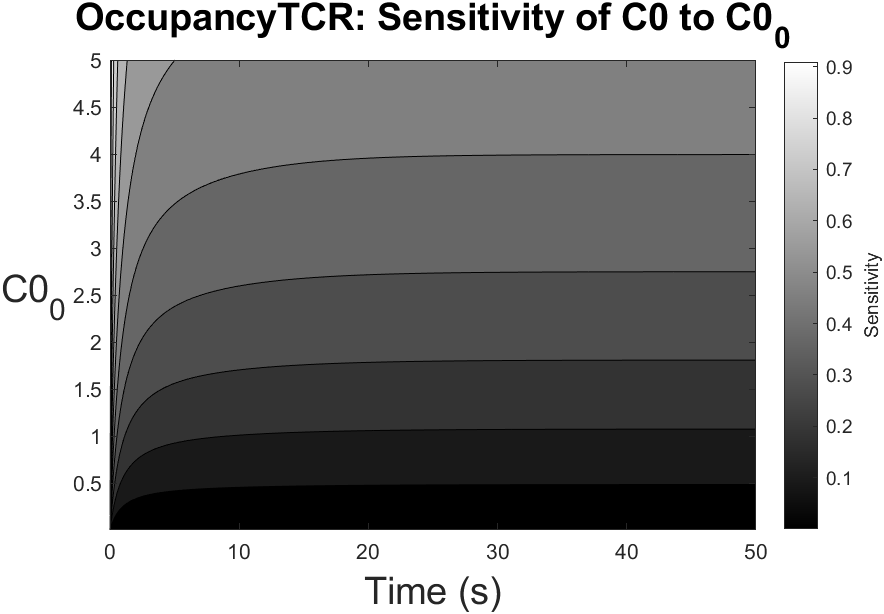
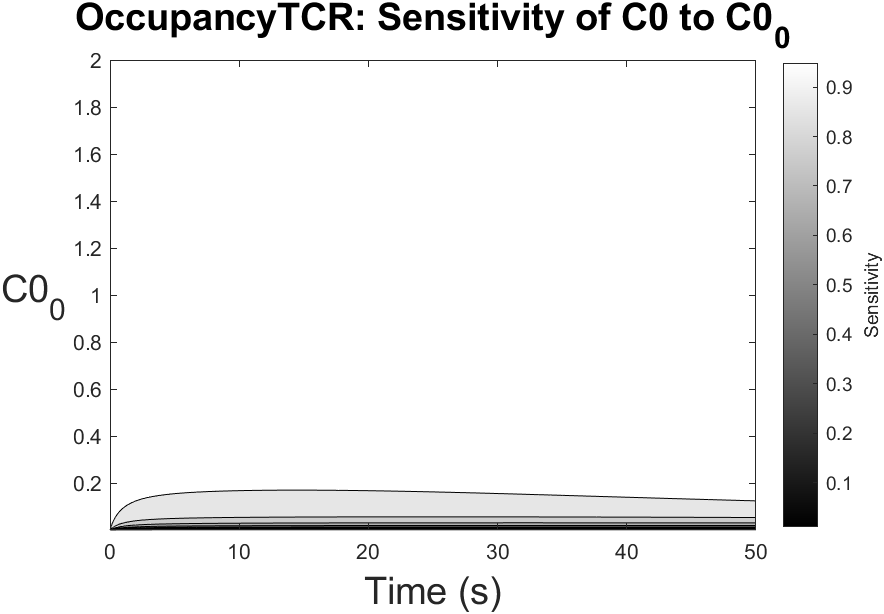
Add IC sensitivity support and update options
Enable sensitivity-to-initial-conditions workflow and refactor related option handling. Adds a new ASV template for OccupancyTCR sensitivity options (v.6/models/OccupancyTCR_options.asv), extends model option fields (ICs_ranges, range_typeICs, number_samples) and moves/time/state config into the model options file. Update sensitivityICs.m to read IC ranges from the model and to build state vectors for three range types. Update Print_Options.m to print the new IC settings, and flip opts.ICsens default to true in v.6/options.m. Update run metadata and images for IC results (changed solver/tolerances and selected IC in run_options_ICs.txt; added IC_3 images and refreshed IC_1 images). Miscellaneous cleanup and synchronization between option files and printers.

diff --git a/v.6/src/sensitivityICs.m b/v.6/src/sensitivityICs.m
@@ -10,16 +10,31 @@ function sensitivityICs(model, opts, ode_function)
     nIC = opts.nStaIC;    
     
     % Limit of the range for analysing the sensitivity
-    rango_min= opts.rango(1);
-    rango_max= opts.rango(2);
+    rango_min= model.ICs_ranges(1);
+    rango_max= model.ICs_ranges(2);
     
     h = waitbar(0, sprintf('Computing IC sensitivity for %s_0...', ...
                            model.state_names{nIC}));
 
     tic
     
-    % Points within the range of sensitivity
-    stateVect = logspace(log10(rango_min), log10(rango_max), model.number_samples);
+    if model.range_typeICs == 1
+
+        % Points within the range of sensitivity
+        stateVect = logspace(rango_min, log10(rango_max), model.number_samples);
+
+    elseif model.range_typeICs == 2
+    
+        model.number_samples = 1000;
+        stateVect = model.param_ranges;
+
+    elseif model.range_typeICs == 3
+
+        stateVect = model.param_ranges;
+    
+    end   
+
+    
 
     results_matrix = zeros(model.number_samples, length(model.tspan));
 

diff --git a/v.6/src/Print/Print_Options.m b/v.6/src/Print/Print_Options.m
@@ -30,12 +30,6 @@ end
 if opts.ICsens
     fprintf('Sensitivity to initial conditions:\n');
     fprintf('  Enabled\n');
-
-    fprintf('Initial condition index to analyse:\n');
-    fprintf('  %d\n', opts.nStaIC);
-
-    fprintf('Range for IC sensitivity:\n');
-    fprintf('  [%g, %g]\n', opts.rango(1), opts.rango(2));
 end
 
 
@@ -87,3 +81,13 @@ fprintf('State index to analyze: \n   %d\n', model.state_index);
 
 fprintf('Step size: \n   %g\n', model.step_size);
 fprintf('Final time: \n   %g\n', model.t_end);
+
+if opts.ICsens
+
+    fprintf('Initial condition index (referred to the state vector) to analyse:\n');
+    fprintf('  %d\n', opts.nStaIC);
+
+    fprintf('Range for IC sensitivity:\n');
+    fprintf('  [%g, %g]\n', model.ICs_ranges(1), model.ICs_ranges(2));
+
+end

diff --git a/v.6/options.m b/v.6/options.m
@@ -23,7 +23,5 @@ function opts = options()
                                          %   2 - Results are shown in Heatmap form, INFERNO scale.
 
     % === SENSITIVITY TO INITIAL CONDITIONS ===
-    opts.ICsens = false;                % 'True' If you want to analyse the sensitivity to a given initial condition; 'False' if not.
-    opts.nStaIC = 1;                   % Which initial condition you want to analyse. '1' for the first one, '2' for the second one, and so on.
-    opts.rango = [1, 5e4];             % Range for the sensitivity analysis
+    opts.ICsens = true;               % 'True' If you want to analyse the sensitivity to a given initial condition; 'False' if not.
 end
